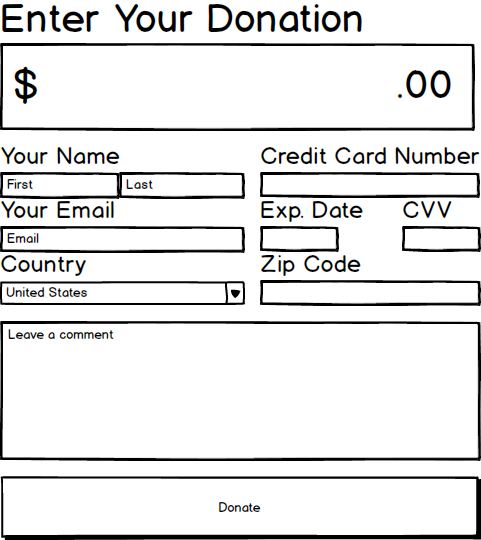
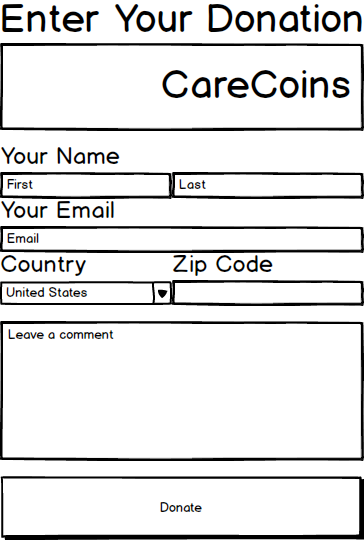
remove extra stores and real money features

diff --git a/README.md b/README.md
@@ -1,5 +1,7 @@
 # Helping Hand
 
+Tagline: Show that you care
+
 [Heroku link][heroku]
 
 [heroku]: http://helping-hand.herokuapp.com
@@ -15,9 +17,9 @@ progress. Put an x between the brackets for a checkmark: [x] -->
 - [ ] Create an account
 - [ ] Log in / Log out
 - [ ] Create, read, update, and delete fundraisers
-- [ ] Users can donate money to other users
-      (login not necessary to donate on real site)
-- [ ] Users can withdraw money from fundraisers
+- [ ] Users can donate CareCoins to other users
+  - (login not necessary to donate on real site)
+~~- [ ] Users can withdraw money from fundraisers~~
 - [ ] Users can search fundraisers by title
 
 ## Design Docs
@@ -91,7 +93,7 @@ user interface.
   - [ ] viewing donations by fundraiser
 - [ ] Use CSS to style new views
 
-### [Phase 6: Withdrawal][phase-six] (0.5 days)
+~~### [Phase 6: Withdrawal][phase-six] (0.5 days)
 
 **Objective:** Allow users to withdraw funds they have raised.
 (Do I even need to have real money integration in my project??)
@@ -99,11 +101,11 @@ user interface.
 - build out API, Flux loop, and components for:
   - [ ] fetching funds raised by user
   - [ ] transferring funds to user
-- [ ] Style new elements
+- [ ] Style new elements~~
 
 ### [Phase 7: Search Fundraisers by Title][phase-seven] (0.5 days)
 
-**objective:** Implement search-by-title utility.
+**Objective:** Implement search-by-title utility.
 
 - build out API, Flux loop, and components for:
   - [ ] fetching titles by matching letter from database
@@ -112,17 +114,19 @@ user interface.
 
 ### [Phase 8: Styling Cleanup and Seeding][phase-eight] (1 day)
 
-**objective:** Make the site feel more cohesive and awesome.
+**Objective:** Make the site feel more cohesive and awesome.
 
 - [ ] Get feedback on my UI from others
 - [ ] Refactor HTML classes & CSS rules
 - [ ] Add modals, transitions, and other styling flourishes.
 
 ### Bonus Features (2+ days)
+I will probably get to some of these. However, they are not part of the
+*minimum* viable product.
 - [ ] [User page listing fundraisers and donations by user][bonus-one] (0.5 days)
 - [ ] Assign tags to fundraisers (0.5 - 1 days)
 - [ ] Search fundraisers by tag and/or category (0.5 - 1 days)
-      (This will be accomplished by refactoring Phase 7, so it will not get its
+  - (This will be accomplished by refactoring Phase 7, so it will not get its
         own phase page.)
 - [ ] Multiple sessions (TBD)
 

diff --git a/docs/stores.md b/docs/stores.md
@@ -13,16 +13,6 @@ Holds all persisted fundraiser data.
 - `FundraisersIndex` (passes to `FundraiserIndexItem` via props)
 - `FundraiserDetail`
 
-### FundraiserFormStore
-
-Holds un-persisted fundraiser data to send to the API.
-
-##### Actions:
-- `receiveFundraiserFormParams`
-
-##### Listeners:
-- `FundraiserForm`
-
 ### DonationStore
 
 Holds all persisted donation data.
@@ -33,16 +23,6 @@ Holds all persisted donation data.
 
 ##### Listeners:
 - `DonationIndex`
-
-### DonationFormStore
-
-Holds un-persisted donation data to send to the API.
-
-##### Actions:
-- `receiveDonationFormParams`
-
-##### Listeners:
-- `DonationForm`
 
 ### SearchStore
 

diff --git a/docs/views.md b/docs/views.md
@@ -23,9 +23,6 @@
 ## Donation Form
 ![donation-form]
 
-## Withdrawal Form
-![withdrawal-form]
-
 [new-user]: ./wireframes/new_user.png
 [new-session]: ./wireframes/new_session.png
 [fundraisers-index]: ./wireframes/fundraisers_index.png
@@ -33,5 +30,4 @@
 [user-fundraisers-index]: ./wireframes/user_fundraisers_index.png
 [fundraiser-form]: ./wireframes/fundraiser_form.png
 [donation-form]: ./wireframes/donation_form.png
-[withdrawal-form]: ./wireframes/withdrawal_form.png
 [source]: http://www.huffingtonpost.com/entry/powerball-reimbursement-fund_us_569bbcafe4b0ce496424c255

diff --git a/docs/schema.md b/docs/schema.md
@@ -30,9 +30,3 @@ password_digest      | string    | not null
 session_token        | string    | not null, indexed, unique
 first_name           | string    | not null
 last_name            | string    | not null
-bank                 | integer   | not null
-credit_card_number   | integer   |
-credit_card_exp_date | date      |
-CVV                  | integer   |
-bank_account_number  | integer   |
-routing_number       | integer   |

diff --git a/docs/phases/phase6.md b/docs/phases/phase6.md
@@ -1,4 +1,4 @@
-# Phase 6: Withdrawal (0.5 days)
+~~# Phase 6: Withdrawal (0.5 days)
 
 ## Rails
 ### Models
@@ -16,4 +16,4 @@
 ### Actions
 
 ## Gems/Libraries
-* stripe
+* stripe~~

diff --git a/docs/phases/phase5.md b/docs/phases/phase5.md
@@ -39,4 +39,4 @@
 * ApiUtil.updateDonation
 
 ## Gems/Libraries
-* stripe
+~~* stripe~~
